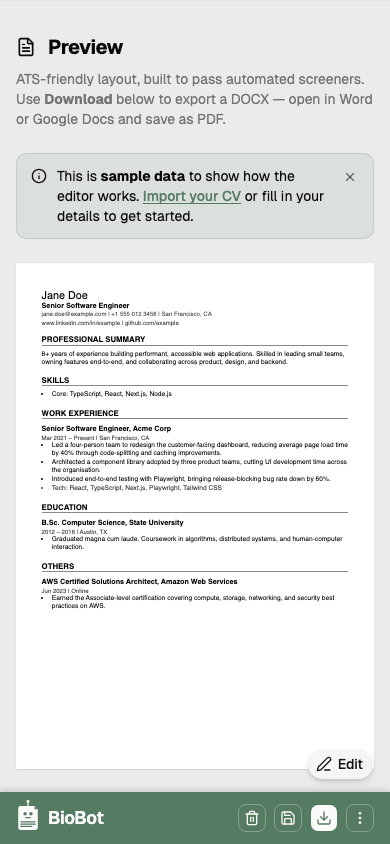
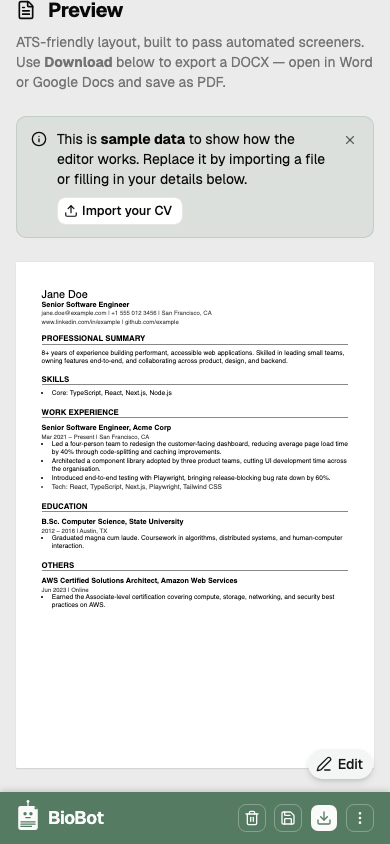
docs: align privacy copy with Sentry; refresh OG image and screenshots
- Landing, README, overview generator: no false no-cookies/no-server claims;
  disclose Gemini, localStorage, and production Sentry (no replay).
- OG meta description and generate-og-image taglines match.
- Regenerate public/og-image.png and docs screenshots via npm run generate:og.

Made-with: Cursor

Changed region(s): [[0.0308, 0.0, 0.9538, 0.2773], [0.0923, 0.3389, 0.8923, 0.7393], [0.8923, 0.154, 0.9231, 0.1848]]

diff --git a/src/pages/LandingPage.tsx b/src/pages/LandingPage.tsx
@@ -112,7 +112,7 @@ const FEATURES = [
   {
     icon: ShieldCheckIcon,
     title: 'Privacy-first',
-    desc: 'Everything stays in your browser\u2019s local storage. No server, no cookies, no sign-up.',
+    desc: 'Your CV draft lives in local storage on your device. No sign-up and no app server. Optional Gemini; production builds send scrubbed errors to Sentry.',
   },
   {
     icon: KeyRoundIcon,
@@ -618,22 +618,31 @@ function BehindTheScenesSection() {
         <Card>
           <CardHeader>
             <CardTitle as="h3">
-              <LockIcon className="inline size-4" aria-hidden="true" /> Cookies &amp; data privacy
+              <LockIcon className="inline size-4" aria-hidden="true" /> Data privacy
             </CardTitle>
           </CardHeader>
           <CardContent className="space-y-2 text-xs text-muted-foreground">
             <p>
-              No cookies. No server. Gemini calls go directly from your browser to Google using your
-              own API key.
+              This app has <strong>no backend</strong> for your CV. Your draft, API key, and theme
+              are saved to <code className="rounded bg-muted px-1">localStorage</code> on your
+              device so you can pick up where you left off. They are not uploaded to us.
             </p>
             <p>
-              Your CV data, API key, and theme preference are saved to{' '}
-              <code className="rounded bg-muted px-1">localStorage</code> in your browser so you can
-              pick up where you left off. Nothing is sent to any server.
+              <strong>Gemini</strong> (optional): requests go from your browser straight to Google
+              using your own API key.
             </p>
             <p>
-              Your API key is stored locally on your device &mdash; never on a server. Anyone with
-              access to this browser could read it, so use a device you trust.
+              <strong>Sentry</strong> (production only): scrubbed crash and performance data may be
+              sent to Sentry so bugs can be fixed. Session replay is off. See the project README for
+              what is redacted.
+            </p>
+            <p>
+              No ad or marketing cookies. The Sentry SDK may still use browser storage for its own
+              session correlation.
+            </p>
+            <p>
+              Your API key stays on your device &mdash; anyone with access to this browser could
+              read it, so use a device you trust.
             </p>
           </CardContent>
         </Card>

diff --git a/index.html b/index.html
@@ -19,7 +19,7 @@
     <meta property="og:type" content="website" />
     <meta property="og:url" content="https://batbrain9392.github.io/cv-builder/" />
     <meta property="og:title" content="BioBot" />
-    <meta property="og:description" content="AI-powered CV and cover letter builder — runs entirely in your browser. No sign-up, no server, no cookies." />
+    <meta property="og:description" content="AI-powered CV and cover letter builder — runs entirely in your browser. No sign-up, no app server; optional Gemini; scrubbed error reporting in production." />
     <meta property="og:image" content="https://batbrain9392.github.io/cv-builder/og-image.png" />
     <meta property="og:image:width" content="1200" />
     <meta property="og:image:height" content="630" />

diff --git a/OVERVIEW.md b/OVERVIEW.md
@@ -1,6 +1,6 @@
 # BioBot — Project Overview for AI Agents
 
-> **Auto-generated** by `scripts/generate-overview.mjs` on 2026-04-07 (main@45e90b4).
+> **Auto-generated** by `scripts/generate-overview.mjs` on 2026-04-07 (main@92c328c).
 > Re-run with `npm run generate:overview` after structural changes.
 
 ---
@@ -13,7 +13,7 @@ BioBot is an **AI-powered CV and cover letter builder** that runs entirely in th
 
 - **ATS-compatible output is the #1 priority** — every feature, AI prompt, and export format must preserve clean, structured, plain-text formatting that applicant tracking systems parse correctly. Nothing in the app should alter the CV's structure, reorder sections, or inject content unless the user explicitly requests and confirms it.
 - **Per-job tailoring** — load data once, paste a JD, generate AI suggestions, tweak, export. Repeat for each application.
-- **Privacy-first, local-first** — no cookies, no server, no analytics. Gemini API calls go directly from the browser using the user's own API key.
+- **Privacy-first, local-first** — no app backend for CV data; no ad/marketing cookies. Optional Gemini from the browser with the user's API key; production Sentry for scrubbed errors/traces (no Session Replay).
 - **Simple English, honest content** — no fake metrics, no company-specific acronyms in exported CVs. AI must not invent claims or data not present in the source.
 
 ---
@@ -101,6 +101,7 @@ BioBot is an **AI-powered CV and cover letter builder** that runs entirely in th
 │   │   │   └── tooltip.tsx
 │   │   ├── AppHeader.tsx
 │   │   ├── AppLogo.tsx
+│   │   ├── DismissibleStatusBanner.tsx
 │   │   ├── EmojiIcon.tsx
 │   │   ├── ErrorBoundary.test.tsx
 │   │   ├── ErrorBoundary.tsx
@@ -131,6 +132,7 @@ BioBot is an **AI-powered CV and cover letter builder** that runs entirely in th
 │   │   │   ├── CollapsibleSection.tsx
 │   │   │   ├── CoverLetterFields.tsx
 │   │   │   ├── DownloadDialog.tsx
+│   │   │   ├── EditorGuideHint.tsx
 │   │   │   ├── EducationFields.tsx
 │   │   │   ├── ExperienceEntryFields.tsx
 │   │   │   ├── FormActions.tsx
@@ -172,6 +174,7 @@ BioBot is an **AI-powered CV and cover letter builder** that runs entirely in th
 │   │   └── GuideToc.tsx
 │   ├── lib/
 │   │   ├── cvStorage.ts
+│   │   ├── editorGuideHintStorage.ts
 │   │   ├── patchIosKeyboardGap.ts
 │   │   ├── sentry.ts
 │   │   ├── share.ts
@@ -214,7 +217,7 @@ BioBot is an **AI-powered CV and cover letter builder** that runs entirely in th
 └── vitest.config.ts
 ```
 
-### Source files (83 source, 15 test, 1 e2e)
+### Source files (86 source, 15 test, 1 e2e)
 
 #### `src/` layout
 
@@ -261,7 +264,7 @@ BioBot is an **AI-powered CV and cover letter builder** that runs entirely in th
 - **react-hook-form** owns the entire CV form state (useForm, useFieldArray, useWatch, zodResolver).
 - **Local state** via `useState` / `useRef` / `useCallback` for UI concerns (dialogs, preview toggle, collapsibles).
 - **Custom hooks** encapsulate side effects: `useAiGeneration`, `useCvExport`, `useTheme`.
-- **Persistence:** CV data, Gemini API key, and theme preference persist in `localStorage` (via `src/lib/cvStorage.ts` and `useTheme`). Nothing is sent to any server.
+- **Persistence:** CV data, Gemini API key, and theme preference persist in `localStorage` (via `src/lib/cvStorage.ts` and `useTheme`). Not uploaded to an app server; optional Gemini to Google; production Sentry receives scrubbed errors/traces.
 
 ### Styling
 
@@ -346,7 +349,7 @@ These rules are non-negotiable. Violating them will be flagged during review.
 
 - **Minimize dependencies.** Don't add a library for something that can be done in a few lines.
 - **No backend.** Everything runs client-side. Gemini API calls go directly from the browser.
-- **No cookies, no analytics, no tracking.** `localStorage` stores CV data, Gemini API key, and theme preference — all local-only.
+- **No ad cookies or marketing analytics.** `localStorage` stores CV data, Gemini API key, and theme preference locally. Production Sentry is error/performance monitoring only (scrubbed, no Session Replay).
 
 ### Git and CI
 
@@ -508,7 +511,7 @@ The OG image is a 1200×630 composite built by `scripts/generate-og-image.mjs`. 
 
 ## File inventory
 
-### Source files (83)
+### Source files (86)
 
 - `src/components/menuItemClass.ts` (3 lines)
 - `src/cv/ai/extractTextFromFile.ts` (54 lines)
@@ -526,6 +529,7 @@ The OG image is a 1200×630 composite built by `scripts/generate-og-image.mjs`. 
 - `src/cv/useAiGeneration.ts` (214 lines)
 - `src/cv/useCvExport.ts` (108 lines)
 - `src/lib/cvStorage.ts` (43 lines)
+- `src/lib/editorGuideHintStorage.ts` (18 lines)
 - `src/lib/patchIosKeyboardGap.ts` (45 lines)
 - `src/lib/sentry.ts` (146 lines)
 - `src/lib/share.ts` (22 lines)
@@ -536,12 +540,13 @@ The OG image is a 1200×630 composite built by `scripts/generate-og-image.mjs`. 
 - `src/lib/useMediaQuery.ts` (17 lines)
 - `src/lib/useTheme.ts` (33 lines)
 - `src/lib/utils.ts` (7 lines)
-- `src/pages/useCvEditorForm.ts` (314 lines)
+- `src/pages/useCvEditorForm.ts` (330 lines)
 - `src/test-setup.ts` (2 lines)
 - `src/vite-env.d.ts` (16 lines)
 - `src/App.tsx` (46 lines)
 - `src/components/AppHeader.tsx` (85 lines)
 - `src/components/AppLogo.tsx` (13 lines)
+- `src/components/DismissibleStatusBanner.tsx` (42 lines)
 - `src/components/EmojiIcon.tsx` (13 lines)
 - `src/components/ErrorBoundary.tsx` (42 lines)
 - `src/components/GeminiIcon.tsx` (18 lines)
@@ -567,6 +572,7 @@ The OG image is a 1200×630 composite built by `scripts/generate-og-image.mjs`. 
 - `src/cv/form/CollapsibleSection.tsx` (60 lines)
 - `src/cv/form/CoverLetterFields.tsx` (193 lines)
 - `src/cv/form/DownloadDialog.tsx` (84 lines)
+- `src/cv/form/EditorGuideHint.tsx` (29 lines)
 - `src/cv/form/EducationFields.tsx` (211 lines)
 - `src/cv/form/ExperienceEntryFields.tsx` (263 lines)
 - `src/cv/form/FormActions.tsx` (108 lines)
@@ -580,7 +586,7 @@ The OG image is a 1200×630 composite built by `scripts/generate-og-image.mjs`. 
 - `src/cv/form/SectionToolbar.tsx` (69 lines)
 - `src/cv/form/TagsInput.tsx` (94 lines)
 - `src/cv/preview/CvPreview.tsx` (180 lines)
-- `src/cv/preview/CvPreviewPanel.tsx` (150 lines)
+- `src/cv/preview/CvPreviewPanel.tsx` (142 lines)
 - `src/cv/preview/Markdown.tsx` (21 lines)
 - `src/guide/GuideCallout.tsx` (23 lines)
 - `src/guide/GuidePathPicker.tsx` (36 lines)
@@ -589,10 +595,10 @@ The OG image is a 1200×630 composite built by `scripts/generate-og-image.mjs`. 
 - `src/guide/GuideToc.tsx` (52 lines)
 - `src/main.tsx` (40 lines)
 - `src/pages/CvEditorDialogs.tsx` (129 lines)
-- `src/pages/CvEditorPage.tsx` (218 lines)
-- `src/pages/CvFormPanel.tsx` (606 lines)
-- `src/pages/GuidePage.tsx` (731 lines)
-- `src/pages/LandingPage.tsx` (913 lines)
+- `src/pages/CvEditorPage.tsx` (220 lines)
+- `src/pages/CvFormPanel.tsx` (613 lines)
+- `src/pages/GuidePage.tsx` (726 lines)
+- `src/pages/LandingPage.tsx` (922 lines)
 
 ### Test files (15)
 
@@ -610,7 +616,7 @@ The OG image is a 1200×630 composite built by `scripts/generate-og-image.mjs`. 
 - `src/cv/form/ImportDialog.test.tsx` (146 lines)
 - `src/cv/form/TagsInput.test.tsx` (108 lines)
 - `src/lib/useIsScrolledPast.test.tsx` (89 lines)
-- `src/pages/CvEditorPage.test.tsx` (184 lines)
+- `src/pages/CvEditorPage.test.tsx` (222 lines)
 
 ### E2E files (1)
 

diff --git a/README.md b/README.md
@@ -27,12 +27,12 @@ The core CV builder works perfectly without AI — you can build, preview, and e
 
 ## 🔒 Privacy
 
-- 🍪 **No cookies.** None.
-- 🚫 **No backend server.** Gemini API calls go directly from your browser to Google using your own API key.
-- 💾 **`localStorage`** is used to save your CV data, Gemini API key, and theme preference in your browser so you can pick up where you left off. Nothing is sent to any server.
-- 🔑 Your Gemini API key is stored locally on your device — never on a server. Anyone with access to this browser can read it, so use a device you trust.
-- 📤 You can also export your data as JSON or DOCX at any time. Use **Clear all** in the editor to wipe both the form and local storage.
-- 🐛 **Error monitoring** uses [Sentry](https://sentry.io) in production to track crashes and failed API calls so bugs can be fixed quickly. All events are scrubbed of API keys, email addresses, phone numbers, and UUIDs **in the browser** before anything is sent. The SDK does not attach IP addresses or user identifiers to events (`sendDefaultPii` is off, `event.user` is deleted). Sentry's server-side **"Prevent Storing IP Addresses"** setting is also enabled. Only console warnings and errors are captured — not general logs.
+- 🚫 **No backend for your CV.** There is no server that stores your draft. **`localStorage`** keeps your CV data, Gemini API key, and theme in your browser so you can pick up where you left off.
+- 🤖 **Gemini (optional):** API calls go **from your browser to Google** using your own key.
+- 🍪 **No ad or marketing cookies.** The app does not use HTTP cookies for its own features. **Sentry** (below) may use browser storage for error session correlation.
+- 🔑 Your Gemini API key stays on your device — anyone with access to this browser can read it, so use a device you trust.
+- 📤 You can export as JSON or DOCX anytime. Use **Clear all** in the editor to wipe the form and local storage.
+- 🐛 **Error monitoring** uses [Sentry](https://sentry.io) in production to track crashes and failed API calls so bugs can be fixed quickly. All events are scrubbed of API keys, email addresses, phone numbers, and UUIDs **in the browser** before anything is sent. The SDK does not attach IP addresses or user identifiers to events (`sendDefaultPii` is off, `event.user` is deleted). Sentry's server-side **"Prevent Storing IP Addresses"** setting is also enabled. Only console warnings and errors are captured — not general logs. Session Replay is not enabled.
 
 ## ⚙ Tech stack
 
